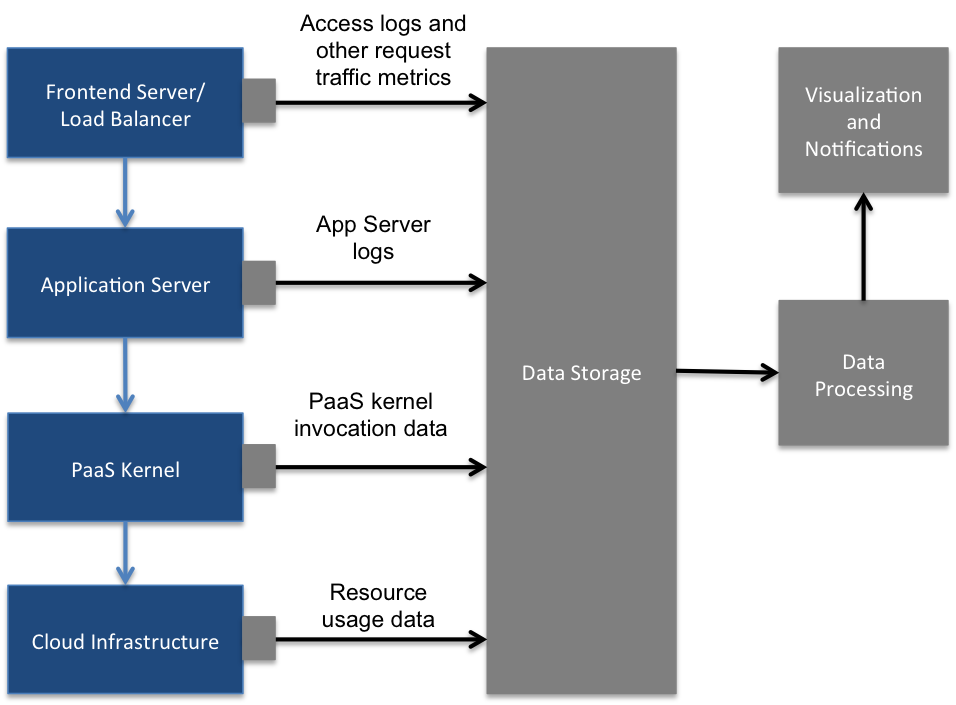
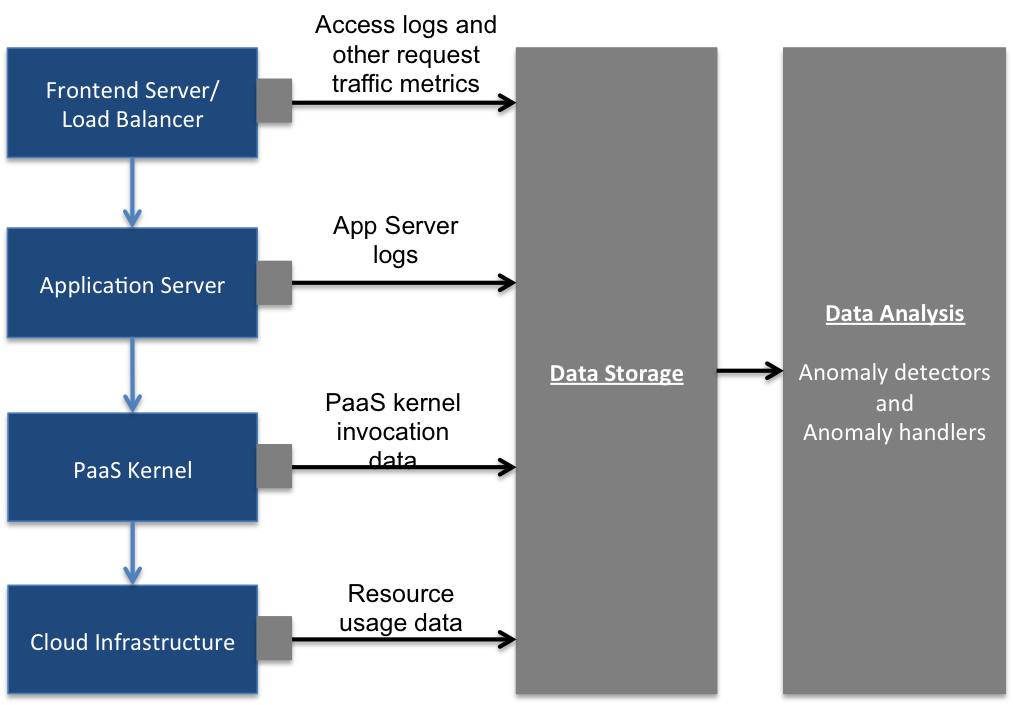
Updated text and diagram

diff --git a/Eager/paper/www17/architecture.tex b/Eager/paper/www17/architecture.tex
@@ -3,19 +3,19 @@ the cloud platform can aid the developer detect anomalies in deployed applicatio
 The cloud platform has full visibility into all the activities that occur in various layers of the cloud,
 including all invocations of the PaaS kernel services. Therefore
 it can automatically collect data regarding events that are related to application request processing. 
-The cloud platform can then process the collected data offline (but in near realtime) to detect 
+The cloud platform can then analyze the collected data offline (but in near realtime) to detect 
 performance anomalies and identify root causes.
 
 We argue that data collection can be implemented efficiently in the cloud platform so as to not
 introduce a significant overhead to deployed applications.
 Moreover, data collection can be always active in the cloud thus relieving the application developers
 from having to instrument their code, or setting up external monitoring.
-The data processing can benefit from the vast amount of compute
+The data analysis can benefit from the vast amount of compute
 resources available in the cloud platform. The offline processing ensures that application request
 processing is not impacted by monitoring, and the near realtime analysis ensures that developers
 and other interested parties are notified of performance anomalies urgently. 
 
-\subsubsection{High-level Architecture and PaaS Integration}
+\subsubsection{Data Collection and Storage}
 \begin{figure}
 \centering
 \includegraphics[scale=0.5]{apm_architecture}
@@ -96,7 +96,7 @@ different layers of the cloud, which will be collected and stored by the APM as 
 \item Zero or more PaaS kernel invocation records
 \end{itemize}
 
-We require a mechanism to tie these disparate records together, so the data processing components can easily
+We require a mechanism to tie these disparate records together, so the data analysis components can easily
 aggregate the related information. For instance, we must be able to retrieve via an
 aggregation query, all PaaS kernel invocations made by a specific application request.
 
@@ -104,10 +104,10 @@ To facilitate this requirement we propose that the front-end server tags all inc
 with unique identifiers.
 This request identifier can be attached to HTTP requests as a header which is visible to all components 
 internal to the PaaS cloud. All data collecting agents can then be configured to record the request identifiers
-whenever recording an event. At the data processing layer Roots can aggregate the data by request identifiers
+whenever recording an event. At the data analysis components Roots can aggregate the data by request identifiers
 to efficiently group the related records.
 
-\subsubsection{Data Processing}
+\subsubsection{Data Analysis}
 Roots data analysis component uses two basic abstractions: \textit{anomaly detectors} 
 and \textit{anomaly handlers}.
 
@@ -144,3 +144,31 @@ and plug them into the system. Both the detectors and the handlers are executed
 as lightweight processes that do not interfere with the rest of the processes in
 the cloud platform. Therefore failures in detectors and handlers have no impact
 on the cloud platform or the deployed applications.
+
+\subsubsection{Roots Process Management}
+Most data collection activities in Roots can be treated as passive -- i.e. they
+happen automatically as the applications receive and process requests in the cloud
+platform. They do not require explicit scheduling or management. In contrast,
+application benchmarking and data analysis are active processes that require
+explicit scheduling and management.  This is achieved by grouping benchmarking
+and data analysis processes into units called Roots pods. 
+
+Each Roots pod is responsible for starting and maintaining a preconfigured set of
+benchmarkers and data analysis processes (i.e. anomaly detectors and handlers). 
+Each of these processes are light enough, so as to pack a large number of them
+into a single pod. Pods are self-contained entities, and there is no inter-communication
+between pods. Processes in a pod can efficiently communicate with each other 
+(using shared memory), and call out to the Roots data storage to retrieve 
+collected performance data for analysis. This enables starting and stopping 
+Roots pods with minimal impact on the overall monitoring system. Furthermore, pods
+can be replicated for high availability, and application load can be distributed
+among multiple pods for scalability.
+
+To automate the process of managing pods, they can be tied into the core
+process management framework of the PaaS cloud. That way whenever the cloud
+platform initializes, a collection of pods can be started automatically.
+Application deployment process of the PaaS cloud can be easily augmented
+to register each new application with one of the available pods, so that the
+benchmarkers and anomaly detectors can start running on the application.
+Moreover, pods can be moved around or restarted as needed in response
+to errors and autoscaling events that occur in the cloud platform.
